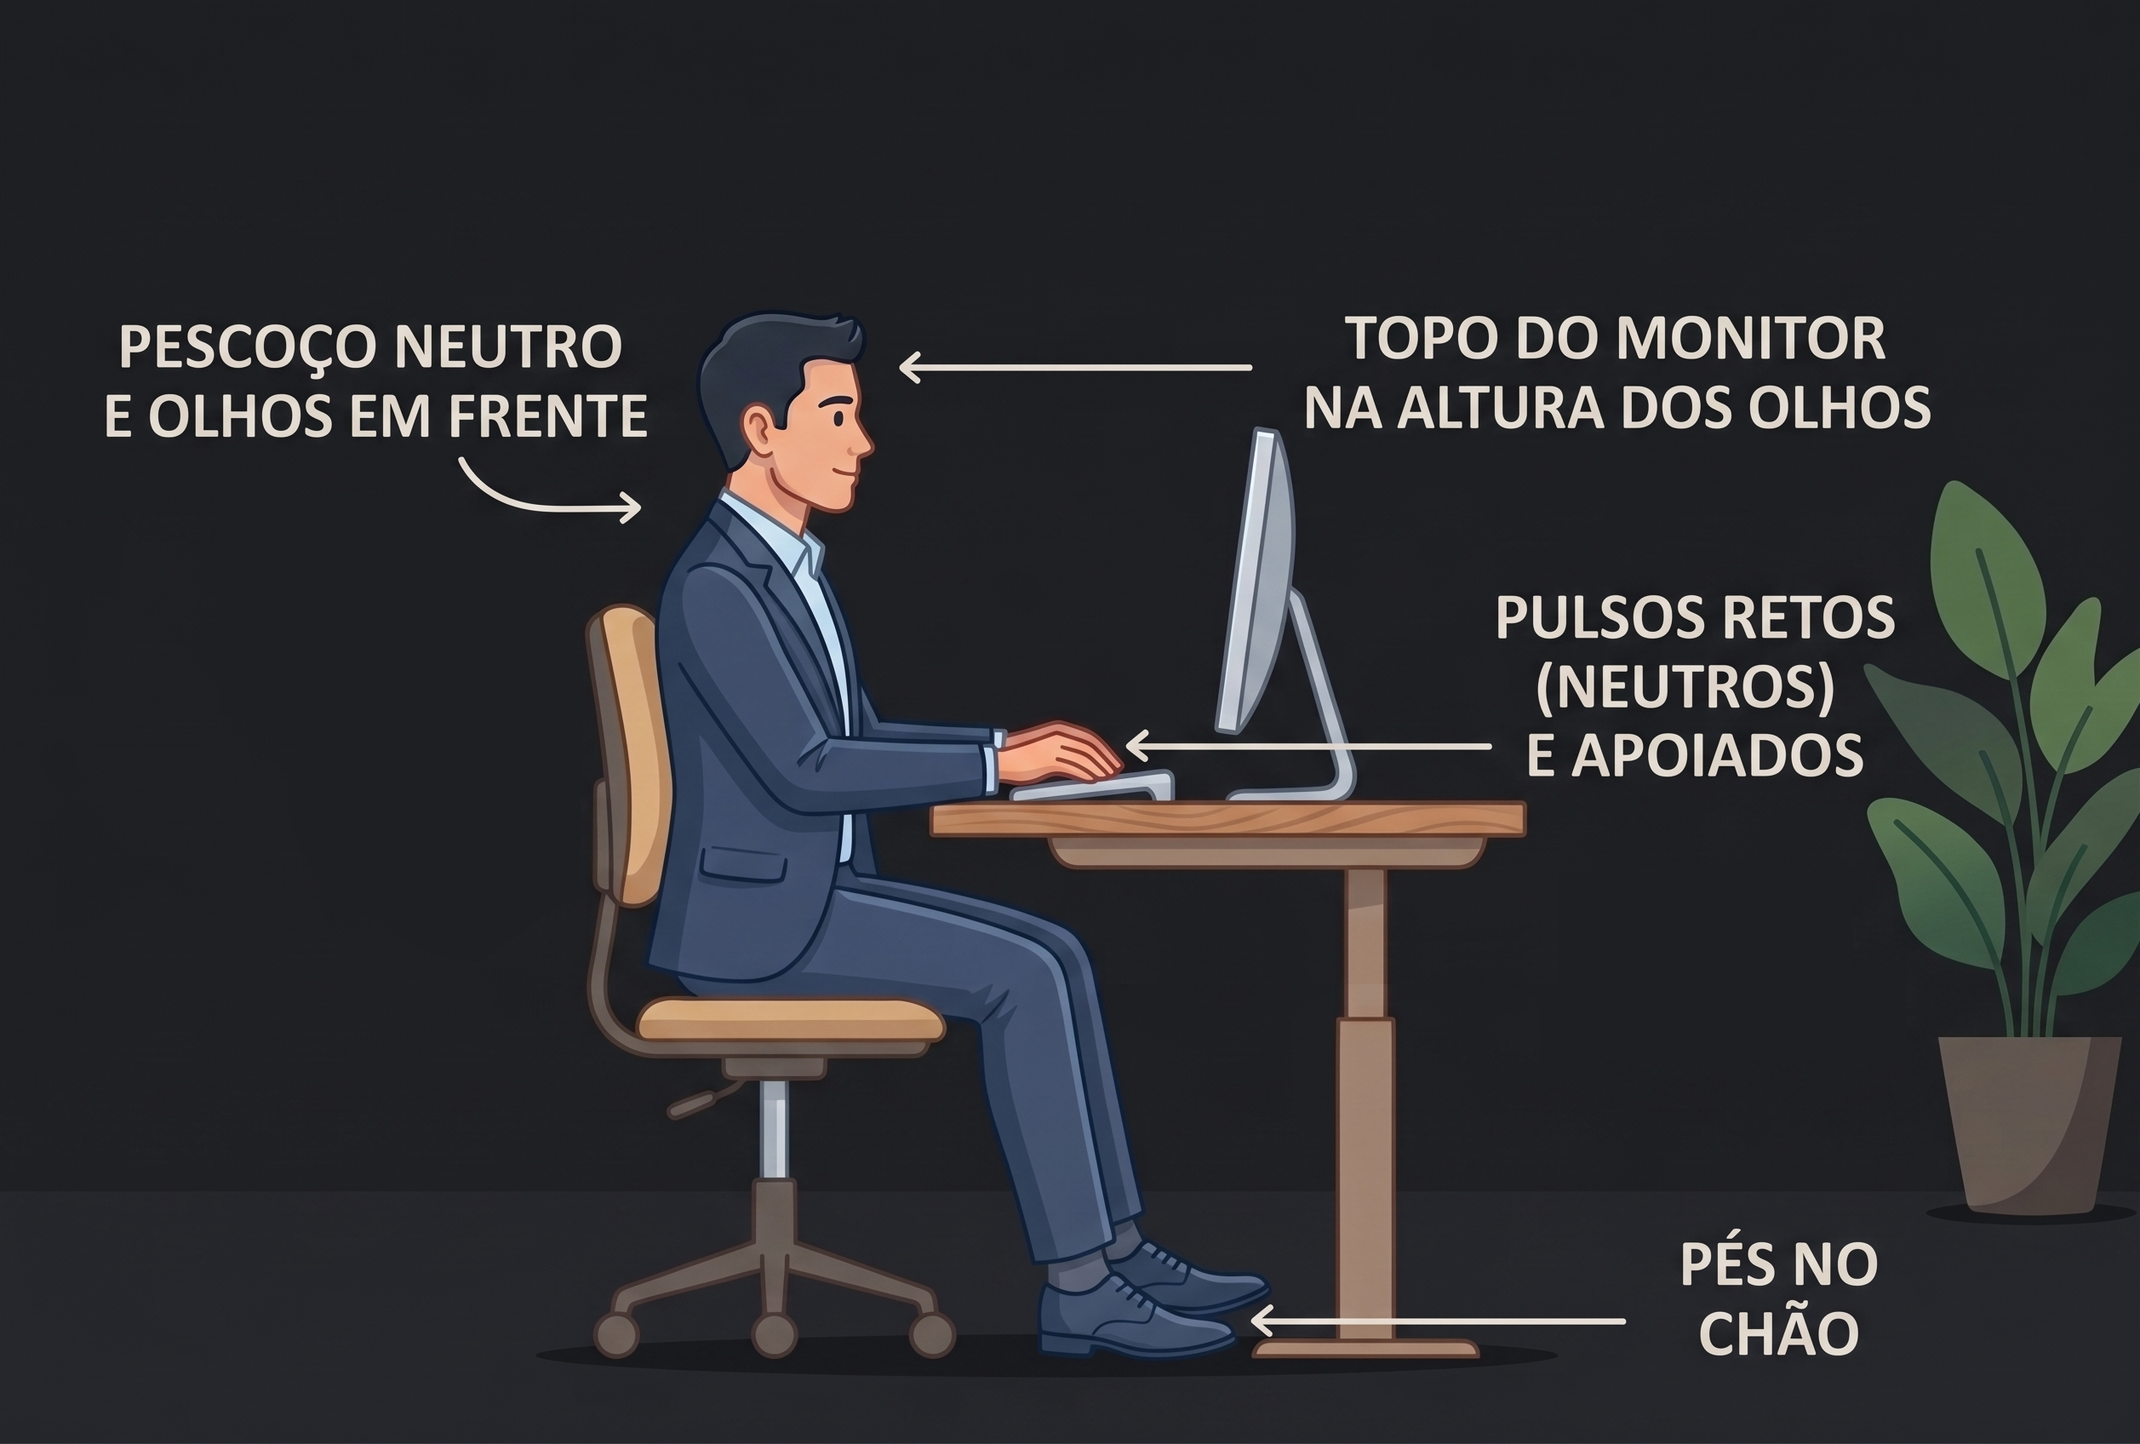
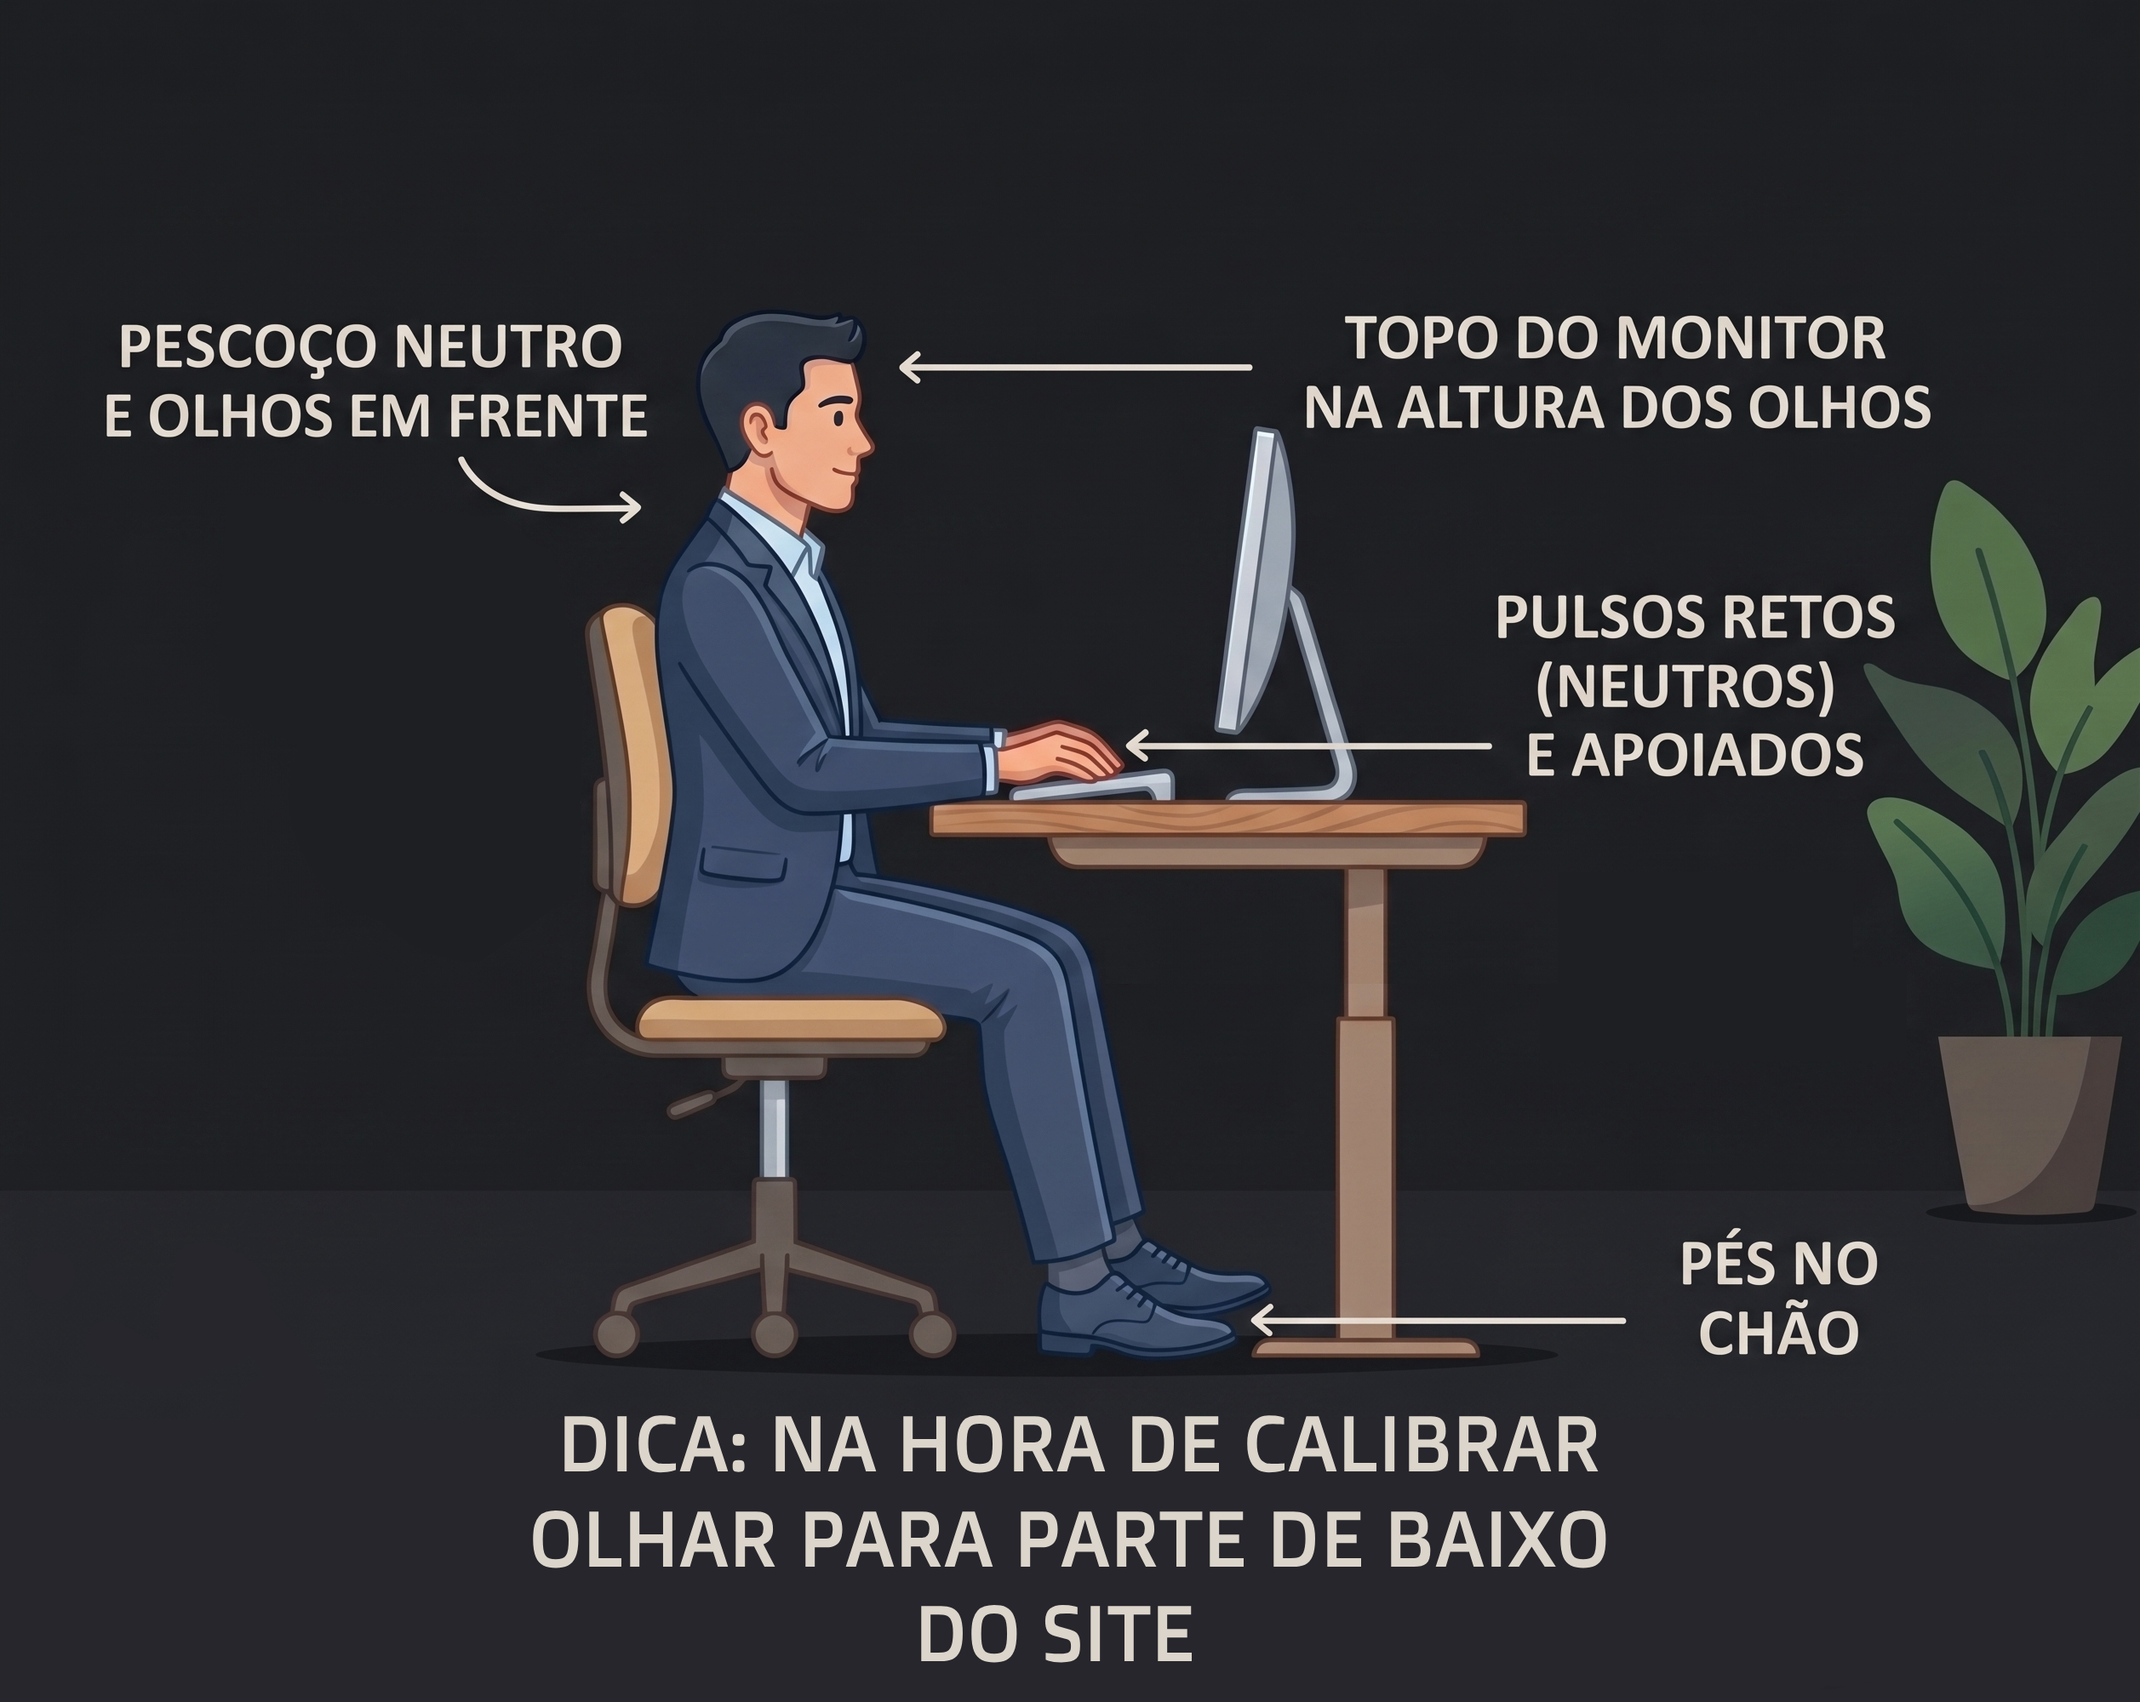
Alterações
Retirada de redundancias dentro do sistema.

Changed region(s): [[0.031, 0.1875, 1.0, 1.0], [0.7757, 0.8438, 0.8687, 0.9375]]

diff --git a/js/modules/script.js b/js/modules/script.js
@@ -1,11 +1,20 @@
 // ============================================================================
-// 1. IMPORTAÇÃO DE BIBLIOTECAS (Formato de Módulo Nativo)
+// 1. IMPORTAÇÃO DE BIBLIOTECAS E MÓDULOS
 // ============================================================================
 import 'https://esm.sh/@tensorflow/tfjs-core@4.20.0';
 import 'https://esm.sh/@tensorflow/tfjs-converter@4.20.0';
 import 'https://esm.sh/@tensorflow/tfjs-backend-webgl@4.20.0';
 import * as faceLandmarksDetection from 'https://esm.sh/@tensorflow-models/face-landmarks-detection@1.0.5';
 
+// Importação das funções e constantes geométricas do módulo externo
+import {
+    INDEX_OLHO_EXTERNO_ESQ,
+    INDEX_OLHO_EXTERNO_DIR,
+    INDICES_OLHO_ESQUERDO,
+    INDICES_OLHO_DIREITO,
+    calcularEAR,
+    calcularDistanciaFace
+} from './geometry.js';
 
 // ============================================================================
 // 2. CONFIGURAÇÕES E MAPEAMENTO DO DOM
@@ -36,16 +45,8 @@ let alertaPiscadaAtivo = false;
 let distanciaPadraoPixel = null; // Variável fixa definida pelo botão de calibração
 let inicioProximidadeExcessiva = null; // Cronômetro de postura
 let alertaPosturaAtivo = false;
-const TEMPO_LIMITE_POSTURA_MS = 60; // 2 minutos (120.000 ms)
+const TEMPO_LIMITE_POSTURA_MS = 60;
 const MARGEM_PROXIMIDADE = 1.15; // 15% maior em pixels já é considerado "muito perto"
-
-// Landmarks para cálculo de distância da face (Canto externo do olho esquerdo e direito)
-const INDEX_OLHO_EXTERNO_ESQ = 33;
-const INDEX_OLHO_EXTERNO_DIR = 263;
-
-// Índices dos pontos dos olhos para cálculo do EAR
-const indicesOlhoEsquerdo = [33, 160, 158, 133, 153, 144];
-const indicesOlhoDireito = [362, 385, 387, 263, 373, 380];
 
 // ============================================================================
 // 3. FUNÇÕES DA APLICAÇÃO
@@ -64,18 +65,6 @@ async function iniciarCamera() {
         statusDiv.innerText = "Erro ao acessar a webcam. Verifique as permissões.";
         console.error(err);
     }
-}
-
-function calcularEAR(p1, p2, p3, p4, p5, p6) {
-    const dVert1 = Math.hypot(p2.x - p6.x, p2.y - p6.y);
-    const dVert2 = Math.hypot(p3.x - p5.x, p3.y - p5.y);
-    const dHoriz = Math.hypot(p1.x - p4.x, p1.y - p4.y);
-    return (dVert1 + dVert2) / (2.0 * dHoriz);
-}
-
-// Calcula a distância euclidiana entre dois pontos faciais na imagem
-function calcularDistanciaFace(pEsq, pDir) {
-    return Math.hypot(pDir.x - pEsq.x, pDir.y - pEsq.y);
 }
 
 function atualizarContadorTempo() {
@@ -101,7 +90,7 @@ function verificarPostura(distanciaAtual) {
     // Se o rosto estiver mais largo/próximo que o limite tolerado
     if (distanciaAtual > limiteMuitoPerto) {
         if (!inicioProximidadeExcessiva) {
-            inicioProximidadeExcessiva = Date.now(); // Inicia cronômetro de 2 min
+            inicioProximidadeExcessiva = Date.now();
         } else {
             const tempoMuitoPerto = Date.now() - inicioProximidadeExcessiva;
             if (tempoMuitoPerto >= TEMPO_LIMITE_POSTURA_MS) {
@@ -139,16 +128,16 @@ async function processarVideo() {
                 ctx.fillRect(ponto.x, ponto.y, 1.5, 1.5);
             });
 
-            // Separação dos pontos dos olhos
-            const pE = indicesOlhoEsquerdo.map(i => pontos[i]);
-            const pD = indicesOlhoDireito.map(i => pontos[i]);
+            // Separação dos pontos dos olhos usando o módulo geometry.js
+            const pE = INDICES_OLHO_ESQUERDO.map(i => pontos[i]);
+            const pD = INDICES_OLHO_DIREITO.map(i => pontos[i]);
 
             // Cálculo da Distância do Rosto
             const pEsqExterno = pontos[INDEX_OLHO_EXTERNO_ESQ];
             const pDirExterno = pontos[INDEX_OLHO_EXTERNO_DIR];
             const distanciaRostoAtual = calcularDistanciaFace(pEsqExterno, pDirExterno);
 
-            // Verifica regra de postura de 2 minutos
+            // Verifica regra de postura
             verificarPostura(distanciaRostoAtual);
 
             if (pE[5] && pD[5]) {
@@ -186,9 +175,9 @@ async function processarVideo() {
             earDiv.innerText = "EAR: -- | Distância: --";
         }
     }
+
     if (document.hidden) {
         // Quando a aba/janela estiver minimizada ou em segundo plano
-        // Roda via setTimeout (~10 FPS) para não pausar
         setTimeout(processarVideo, 100);
     } else {
         // Quando a janela estiver ativa na tela, mantém fluído a 60 FPS

diff --git a/js/main.js b/js/main.js
@@ -22,15 +22,14 @@ import { calibrarDistancia, getDistanciaCalibrada, verificarAlertaPostura } from
 import { 
     processarCicloTempo, 
     registrarPiscada, 
-    getHistoricoPiscadas, 
     setLimiteEar, 
     getLimiteEar, 
     alternarPausaSistema, 
     getSistemaPausado 
 } from './modules/blink.js';
-import { tocarAudioRepeticoes } from './modules/audio.js';
+import { carregarAudio, tocarAudioRepeticoes } from './modules/audio.js';
 import { registrarAvisoPostura } from './modules/postureHistory.js';
-import { mostrarPopup, fecharPopup, dispararNotificacaoNativa, solicitarPermissaoNotificacao } from './modules/notifications.js';
+import { mostrarPopup, fecharPopup, fecharPopups, dispararNotificacaoNativa, solicitarPermissaoNotificacao } from './modules/notifications.js';
 import { inicializarSidebar } from './modules/sidebar.js';
 import { inicializarModal } from './modules/modal.js';
 import { alternarPiP } from './modules/pip.js';
@@ -41,7 +40,6 @@ import { alternarPiP } from './modules/pip.js';
 const video = document.getElementById('webcam');
 const canvas = document.getElementById('output');
 const ctx = canvas ? canvas.getContext('2d') : null;
-const containerVideo = document.querySelector('.video-container') || document.querySelector('.camera-wrapper');
 const imgLoading = document.getElementById('img-loading');
 const statusDiv = document.getElementById('status-container');
 const earDiv = document.getElementById('ear-value');
@@ -52,6 +50,9 @@ const telaDescanso = document.getElementById('tela-descanso');
 const contadorDescanso = document.getElementById('contador-descanso');
 
 let detector;
+
+// Popups gerenciados pelo sistema
+const TOASTS_SISTEMA = ['toast-postura', 'toast-postura-grande', 'toast-piscada'];
 
 // ============================================================================
 // 4. CONTROLES DE INTERFACE (Modal, Sidebar & Pausa)
@@ -107,7 +108,7 @@ async function executarCalibracao() {
         const distancia = calcularDistanciaFace(pEsq, pDir);
         calibrarDistancia(distancia);
 
-        // 2. Calibra EAR Médio (68% da abertura atual como limiar de fechamento)
+        // 2. Calibra EAR Médio
         const pE = INDICES_OLHO_ESQUERDO.map(i => pontos[i]);
         const pD = INDICES_OLHO_DIREITO.map(i => pontos[i]);
         const earEsq = calcularEAR(pE[0], pE[1], pE[2], pE[3], pE[4], pE[5]);
@@ -133,7 +134,6 @@ async function executarCalibracao() {
 // 6. PIPELINE DE PROCESSAMENTO DE VÍDEO
 // ============================================================================
 async function processarVideo() {
-    // Garante que o detector e os metadados de vídeo estejam prontos
     if (!detector || !video || video.readyState < 2 || video.videoWidth === 0 || video.videoHeight === 0 || !ctx) {
         requestAnimationFrame(processarVideo);
         return;
@@ -151,9 +151,7 @@ async function processarVideo() {
             telaDescanso.classList.add('hidden');
         }
         verificarAlertaPostura(0);
-        fecharPopup('toast-postura');
-        fecharPopup('toast-postura-grande');
-        fecharPopup('toast-piscada');
+        fecharPopups(TOASTS_SISTEMA);
 
         if (statusDiv) {
             statusDiv.style.color = "#8e918f";
@@ -195,9 +193,7 @@ async function processarVideo() {
         }
 
         verificarAlertaPostura(0);
-        fecharPopup('toast-postura');
-        fecharPopup('toast-postura-grande');
-        fecharPopup('toast-piscada');
+        fecharPopups(TOASTS_SISTEMA);
 
         if (statusDiv) {
             statusDiv.style.color = "#f28b82";
@@ -337,6 +333,8 @@ async function main() {
     if (loadingText) loadingText.innerText = "Iniciando câmera...";
 
     solicitarPermissaoNotificacao();
+    carregarAudio('./assets/sounds/pertodatela.mp3');
+    carregarAudio('./assets/sounds/piscando.mp3');
 
     try {
         await iniciarCamera(video, canvas, statusDiv);
@@ -351,7 +349,6 @@ async function main() {
             maxFaces: 1
         });
 
-        // Warmup: compilação na GPU
         if (loadingText) loadingText.innerText = "Compilando rede neural na GPU...";
         try {
             await detector.estimateFaces(video);

diff --git a/js/modules/modal.js b/js/modules/modal.js
@@ -1,5 +1,5 @@
 import { renderizarGraficoPiscadas } from './charts.js';
-import { getHistoricoAvisos, limparHistoricoAvisos } from './postureHistory.js';
+import { renderizarListaAvisos, limparHistoricoAvisos } from './postureHistory.js';
 
 export function inicializarModal() {
     const modalHistorico = document.getElementById('modal-historico');
@@ -26,31 +26,6 @@ export function inicializarModal() {
         if (modalHistorico) modalHistorico.classList.add('hidden');
     }
 
-    function renderizarListaAvisos() {
-        const listaUl = document.getElementById('lista-avisos-postura');
-        if (!listaUl) return;
-
-        const avisos = getHistoricoAvisos();
-        listaUl.innerHTML = '';
-
-        if (avisos.length === 0) {
-            listaUl.innerHTML = '<li class="aviso-item" style="justify-content: center; color: #8b949e;">Nenhum aviso registrado até o momento.</li>';
-            return;
-        }
-
-        avisos.forEach(item => {
-            const li = document.createElement('li');
-            li.className = 'aviso-item';
-            li.innerHTML = `
-                <div>
-                    <span class="aviso-hora">${item.horario}</span>
-                </div>
-                <span class="aviso-desc">${item.mensagem}</span>
-            `;
-            listaUl.appendChild(li);
-        });
-    }
-
     if (tabBtnPiscadas && tabBtnPostura) {
         tabBtnPiscadas.addEventListener('click', () => {
             tabBtnPiscadas.classList.add('active');
@@ -72,7 +47,6 @@ export function inicializarModal() {
     if (btnLimparAvisos) {
         btnLimparAvisos.addEventListener('click', () => {
             limparHistoricoAvisos();
-            renderizarListaAvisos();
         });
     }
 

diff --git a/js/modules/posture.js b/js/modules/posture.js
@@ -1,9 +1,11 @@
-export const INTERVALO_NIVEL_MS = 30000; // Intervalo de 30 segundos por nível
-export const MARGEM_PROXIMIDADE = 1.15;   // Tolerância de 15% de aproximação
+// js/modules/posture.js (ou postura.js)
+
+export const INTERVALO_NIVEL_MS = 30000;
+export const MARGEM_PROXIMIDADE = 1.15;
 
 let distanciaPadraoPixel = null;
 let inicioProximidadeExcessiva = null;
-let proximoNivelAlerta = 1; // 1 = 30s (1 toque), 2 = 60s (2 toques), etc.
+let proximoNivelAlerta = 1;
 
 /**
  * Define o valor calibrado de referência em pixels
@@ -23,8 +25,6 @@ export function getDistanciaCalibrada() {
 
 /**
  * Avalia a postura e calcula os disparos sonoros progressivos
- * @param {number} distanciaAtual 
- * @returns {{ alertaAtivo: boolean, segundosPerto: number, dispararAudio: boolean, repeticoesAudio: number }}
  */
 export function verificarAlertaPostura(distanciaAtual) {
     if (!distanciaPadraoPixel) {
@@ -47,7 +47,6 @@ export function verificarAlertaPostura(distanciaAtual) {
         let dispararAudio = false;
         let repeticoesAudio = 0;
 
-        // Verifica se atingiu o próximo patamar (30s = 1x, 60s = 2x, 90s = 3x...)
         const tempoNecessarioMs = proximoNivelAlerta * INTERVALO_NIVEL_MS;
         if (tempoMuitoPertoMs >= tempoNecessarioMs) {
             dispararAudio = true;
@@ -62,7 +61,6 @@ export function verificarAlertaPostura(distanciaAtual) {
             repeticoesAudio
         };
     } else {
-        // Usuário voltou à distância correta: reseta o cronômetro e os níveis
         inicioProximidadeExcessiva = null;
         proximoNivelAlerta = 1;
 

diff --git a/js/modules/notifications.js b/js/modules/notifications.js
@@ -66,3 +66,11 @@ export function fecharPopup(id) {
         setTimeout(() => toast.remove(), 300);
     }
 }
+
+/**
+ * Fecha múltiplos popups de uma única vez
+ * @param {string[]} ids 
+ */
+export function fecharPopups(ids = []) {
+    ids.forEach(id => fecharPopup(id));
+}
